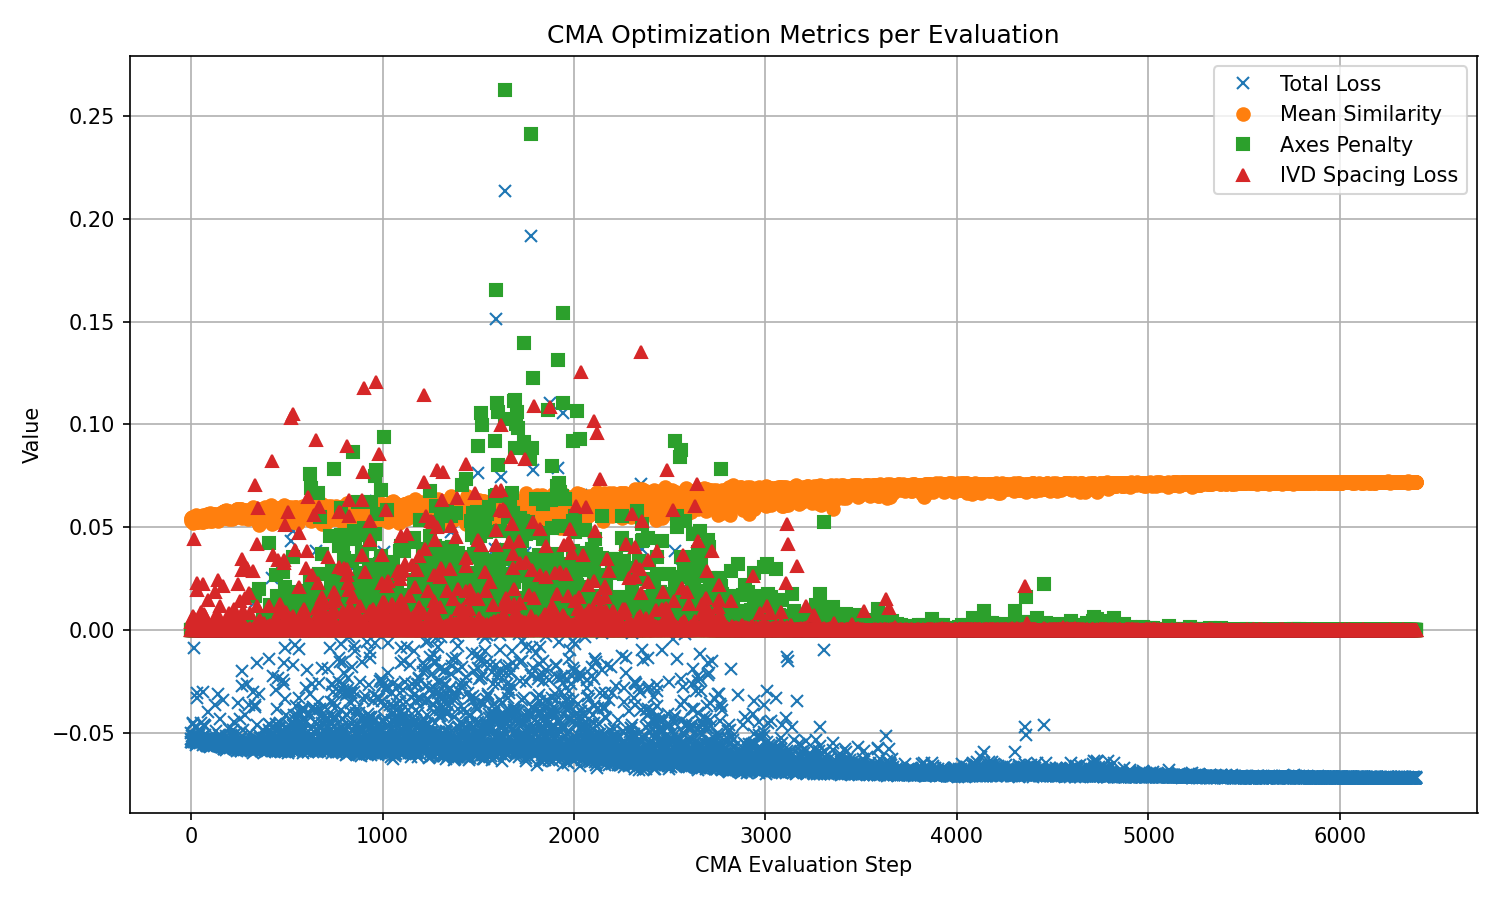
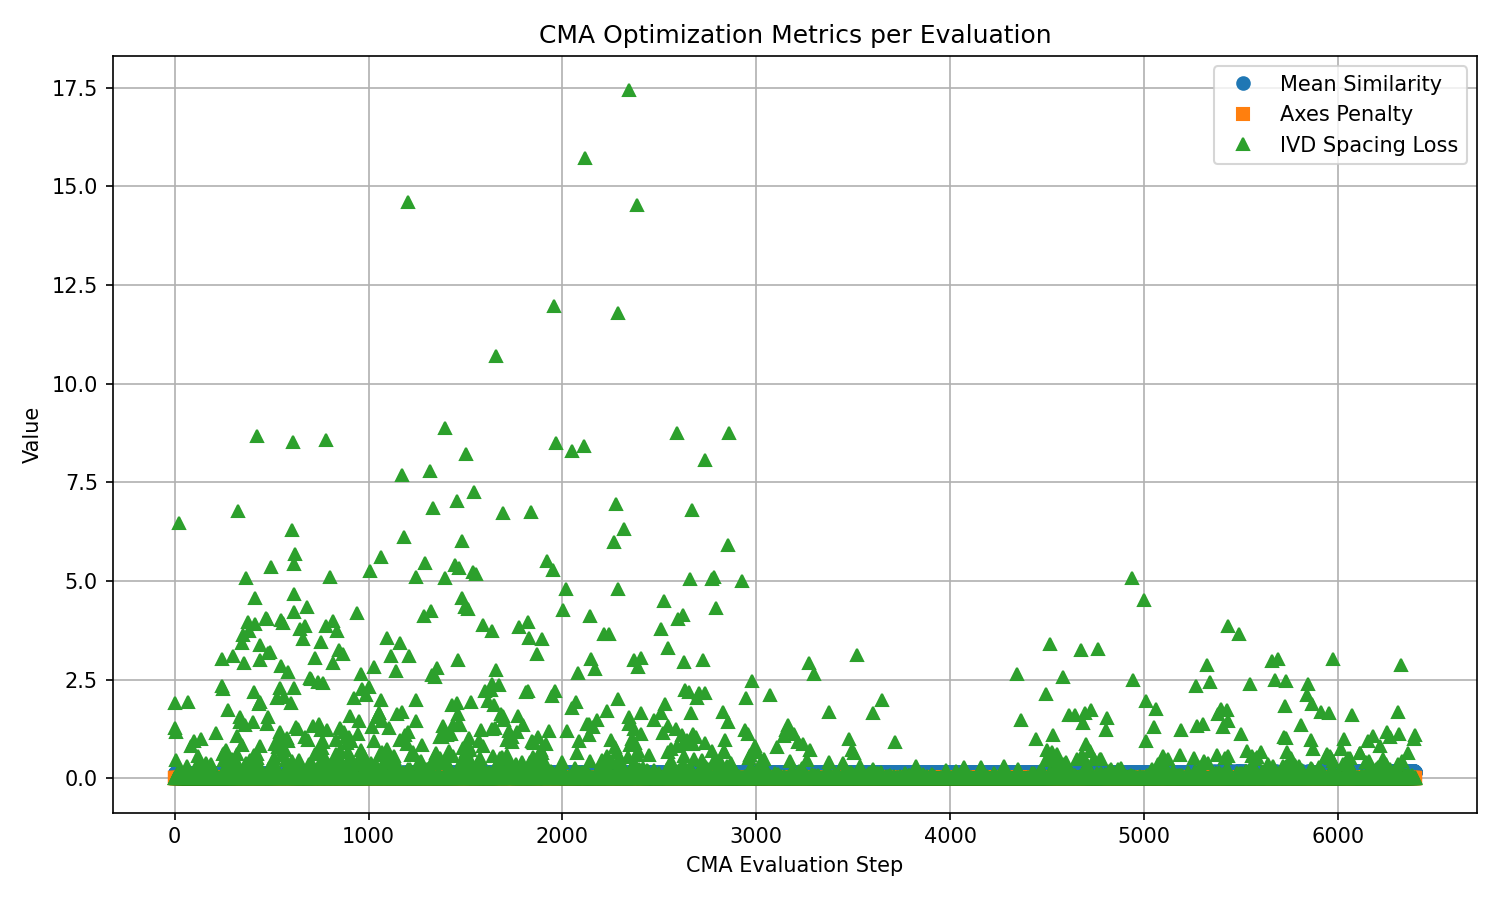
collision analysis testing

diff --git a/groupwise_GPU.py b/groupwise_GPU.py
@@ -10,6 +10,7 @@ from functools import partial
 import matplotlib.pyplot as plt
 import warnings
 warnings.filterwarnings('ignore')
+import json
 
 from utils.file_parser import SlicerJsonTagParser, PyNrrdParser
 from utils.helpers import sitk_euler_to_matrix, compute_inter_vertebral_displacement_penalty, compute_ivd_collision_loss
@@ -103,7 +104,8 @@ def evaluate_group_gpu(flat_params, K, centers, sampled_positions_list,
 
 
     # INTER-VERTEBRAL DISPLACEMENT PENALTY
-    lambda_axes = 0.01 # 0.01
+    # lambda_axes = 0.01
+    lambda_axes = 0.0
     axes_margins = { # mm values
         'LM': 3.0,  # STRICT - very little Lateral-Medial sliding
         'AP': 3.0,  # Anterior-Posterior margin Anterior-Posterior
@@ -116,7 +118,8 @@ def evaluate_group_gpu(flat_params, K, centers, sampled_positions_list,
 
 
     # IVD POINT PAIR PENALTY
-    lambda_ivd = 0.001 # weight
+    lambda_ivd = 0.1 # weight
+    # lambda_ivd = 0.0
     ivd_loss, ivd_metrics = compute_ivd_collision_loss(pairings, transforms_list, case_names)
 
 
@@ -139,9 +142,15 @@ def evaluate_group_gpu(flat_params, K, centers, sampled_positions_list,
     #     f"total_loss: {-float(mean_sim) + lambda_centroid * centroid_penalty + lambda_axes * axes_penalty:.4f}"
     # )
 
-    return total_loss, float(mean_sim), float(axes_penalty * lambda_axes), float(ivd_loss * lambda_ivd)
-    # return -float(mean_sim) + (lambda_centroid * centroid_penalty) + (lambda_axes * axes_penalty)
+    # return total_loss, float(mean_sim), float(axes_penalty * lambda_axes), float(ivd_loss * lambda_ivd)
 
+    return (
+        total_loss,
+        float(mean_sim),
+        float(axes_penalty * lambda_axes),
+        float(ivd_loss * lambda_ivd),
+        ivd_metrics
+    )
 
 
 
@@ -388,20 +397,35 @@ if __name__ == "__main__":
     loss_history = []
     mean_sim_history = []
     axes_penalty_history = []
-    ivd_loss_history = []  
+    ivd_loss_history = [] 
+    ivd_log = []
 
 
     while not es.stop():
         solutions = es.ask()
         values = []
         for sol in solutions:
-            val, mean_sim, axes_pen, ivd_loss = partial_eval(sol)  # unpack with ivd_loss
+            val, mean_sim, axes_pen, ivd_loss, ivd_metrics = partial_eval(sol)  # unpack with ivd_loss
             values.append(val)
             mean_sim_history.append(mean_sim)
             axes_penalty_history.append(axes_pen)
             ivd_loss_history.append(ivd_loss)  # store IVD loss
             loss_history.append(val)
+            
+            ivd_log.append({
+                "eval_id": len(ivd_log),
+                "total_loss": float(val),
+                "mean_sim": float(mean_sim),
+                "axes_penalty": float(axes_pen),
+                "ivd_loss": float(ivd_loss),
+                "ivd_metrics": ivd_metrics
+            })
+
         es.tell(solutions, values)
+
+    # IVD analysis 
+    with open(os.path.join(output_dir, "ivd_diagnostics.json"), "w") as f:
+        json.dump(ivd_log, f, indent=2)
 
     elapsed = time.time() - start_time
     mins = int(elapsed // 60)
@@ -467,8 +491,29 @@ if __name__ == "__main__":
     print("Saved optimization_metrics.png in current directory.")
 
 
-    '''
-    Ius(x) * Ict(T(x))
 
-    Ius(T-1(x))
-    '''
+
+
+    # IVD final solution analysis
+    final_ivd_loss, final_ivd_metrics = compute_ivd_collision_loss(
+        pairings=pairings,
+        transforms_list=final_transforms,
+        case_names=case_names
+    )
+
+    print("\n=== FINAL SOLUTION IVD CHECK ===")
+    print(f"Weighted IVD loss (λ): {0.1 * final_ivd_loss:.4f}")
+
+    any_collision = False
+    for pair, m in final_ivd_metrics.items():
+        print(f"{pair}: min={m['current_min']:.3f} mm, mean={m['current_mean']:.3f} mm, collisions={m['n_collisions']}")
+        if m['current_min'] < 1.5 or m['n_collisions'] > 0:
+            print("  ⚠ COLLISION VIOLATION")
+            any_collision = True
+        else:
+            print("  ✅ OK")
+
+    if any_collision:
+        print("FINAL SOLUTION CONTAINS COLLISIONS")
+    else:
+        print("FINAL SOLUTION IS COLLISION-FREE")

diff --git a/utils/helpers.py b/utils/helpers.py
@@ -67,9 +67,12 @@ def compute_ivd_collision_loss(pairings, transforms_list, case_names):
         )
         
         total_loss += pair_loss
+
+        pair_name = f"L{pair_key[0]}-L{pair_key[1]}"
         
         # store metrics
-        metrics[pair_key] = {
+        metrics[pair_name] = {
+            'pair_idx': pair_key,   # optional: keep numeric version
             'current_mean': float(current_mean),
             'initial_mean': float(initial_mean),
             'current_min': float(np.min(current_distances)),

diff --git a/extra/CT_axis.py b/extra/CT_axis.py
@@ -1,7 +1,7 @@
 import SimpleITK as sitk
 import matplotlib.pyplot as plt
 import numpy as np
-from centroid import compute_centroid
+from .centroid import compute_centroid
 
 def compute_ct_axes(ct_file):
     """
